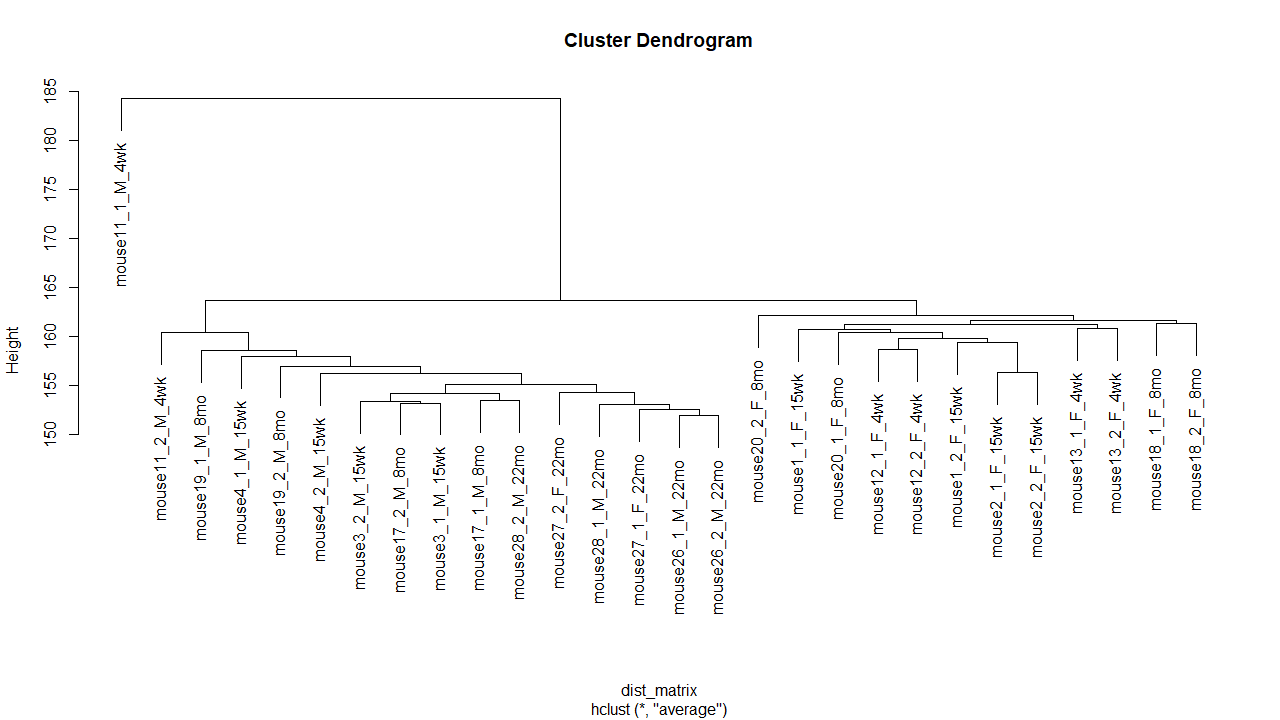
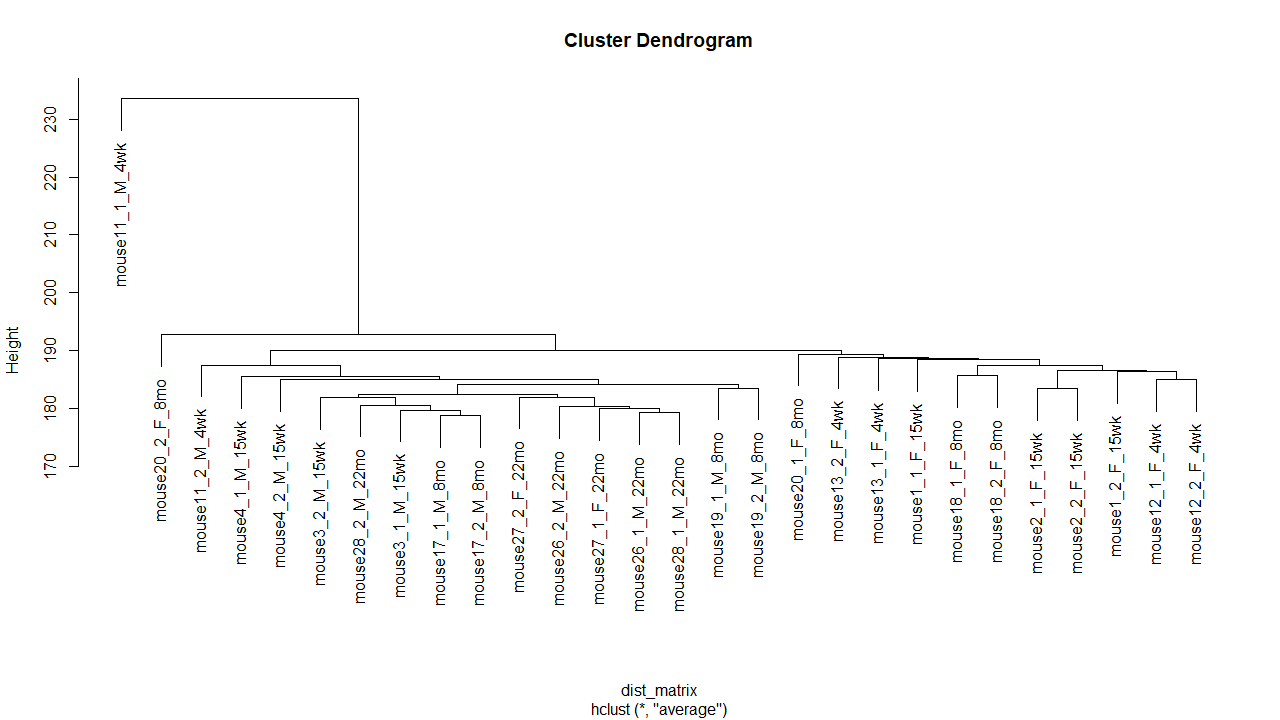
changed scaling in exploratory clustering

diff --git a/README.md b/README.md
@@ -42,9 +42,9 @@ In this script we performed an exploratory hierarchical clustering and identifie
 #### **`import_count_data.R`**
 ``` R
 log_counts <- log2(annotated[,count_columns] + 1)
-scaled_log_counts <- scale(log_counts)
+scaled_log_counts <- t(scale(t(log_counts)))
 dist_matrix <- dist(t(scaled_log_counts))
-clustering <- hclust(dist_matrix, method = "average")
+clustering <- hclust(dist_matrix, method = 'average')
 plot(clustering)
 ```
 
